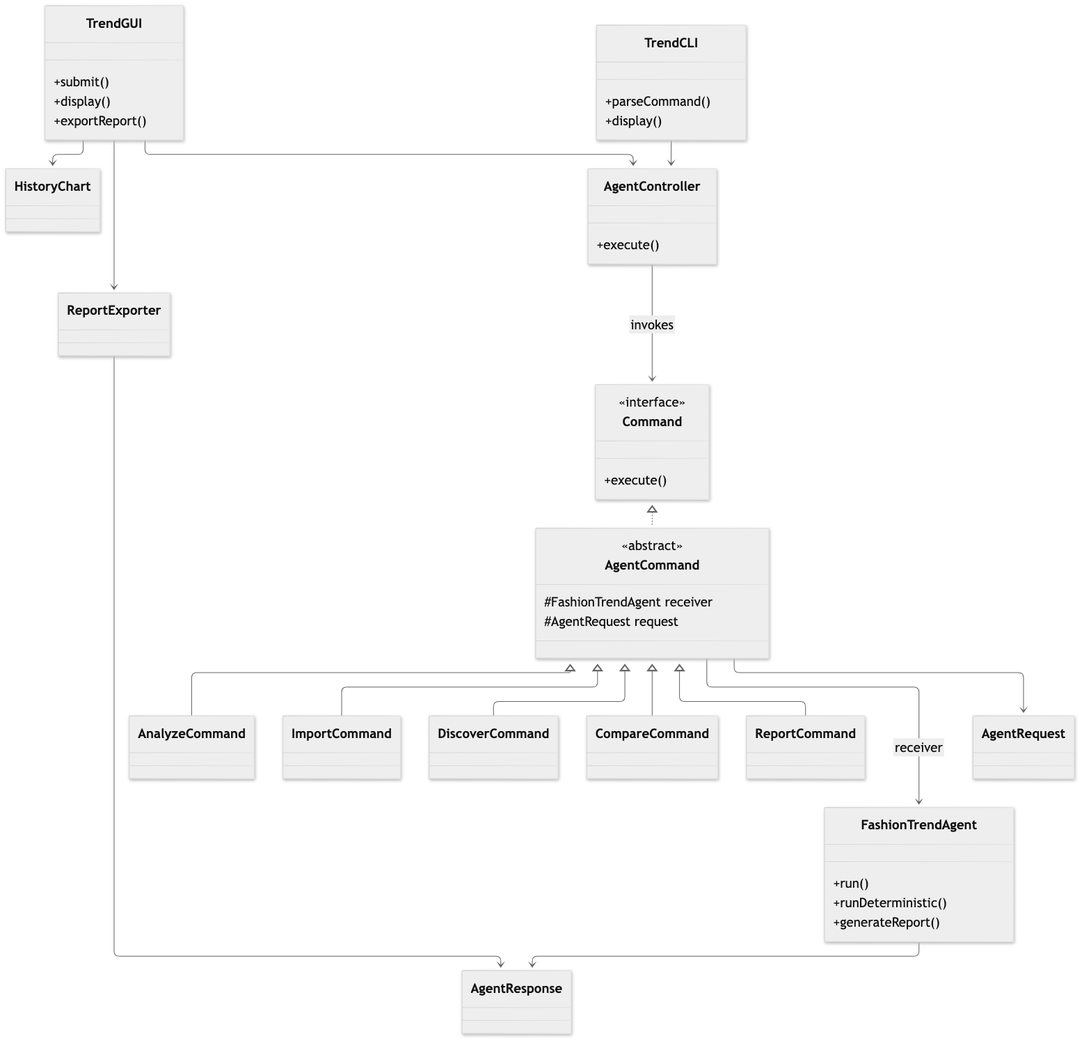
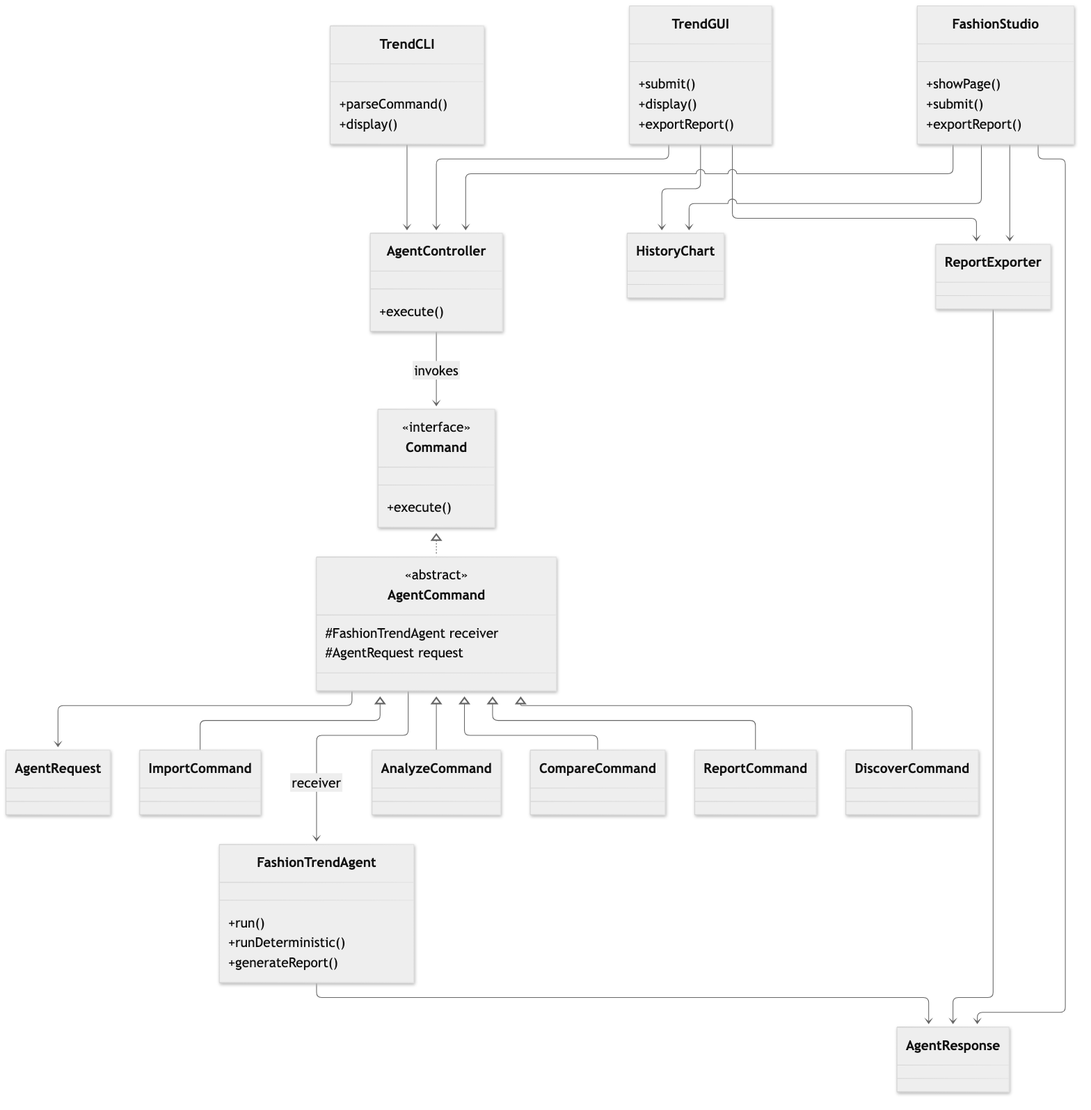
Add Atelier fashion studio with task-focused navigation and separate AI evidence views

diff --git a/src/main/java/fashion/gui/FashionStudio.java b/src/main/java/fashion/gui/FashionStudio.java
@@ -1,0 +1,214 @@
+package fashion.gui;
+
+import fashion.application.*;
+import fashion.command.*;
+import fashion.data.*;
+import fashion.export.ReportExporter;
+import javax.swing.*;
+import javax.swing.table.DefaultTableModel;
+import java.awt.*;
+import java.nio.file.Path;
+import java.time.LocalDate;
+import java.util.List;
+import java.util.ArrayList;
+import java.util.concurrent.CompletableFuture;
+import static fashion.application.AgentRequest.Operation.*;
+
+/** Editorial desktop view; shares the controller, commands and agent with the original GUI. */
+public final class FashionStudio extends JPanel {
+    private static final Color PAPER=new Color(249,247,243), INK=new Color(48,43,49),
+            MUTED=new Color(115,106,117), LILAC=new Color(231,223,239), LINE=new Color(222,215,220);
+    private final FashionTrendAgent agent;
+    private final AgentController controller=new AgentController();
+    private final JLabel title=label("Explore the next chapter.",36,true);
+    private final JLabel subtitle=label("Find a trend, understand its movement, and follow the evidence.",14,false);
+    private final JLabel status=label("Start with a CSV of trend observations.",13,false);
+    private final JLabel summary=label("Your research starts here",24,true);
+    private final JTextField trend=field("trend"), second=field("second"), category=field("category"), from=field("from"), to=field("to");
+    private final JComboBox<String> ranking=new JComboBox<>(new String[]{"Momentum", "Growth"});
+    private final JPanel inputs=new JPanel(new GridLayout(0,4,16,12));
+    private final JPanel actions=new JPanel(new FlowLayout(FlowLayout.LEFT,8,0));
+    private final JPanel metrics=new JPanel(new GridLayout(1,4,16,0));
+    private final JTable table=new JTable();
+    private final HistoryChart chart=new HistoryChart();
+    private final JTextArea narrative=textArea(), evidence=textArea(), notes=textArea();
+    private final JTabbedPane tabs=new JTabbedPane();
+    private final JButton save=button("Save report",false);
+    private final JProgressBar progress=new JProgressBar();
+    private final List<JButton> guarded=new ArrayList<>(), navigation=new ArrayList<>();
+    private AgentResponse response;
+    private boolean busy, imported;
+    private String page="Explore";
+
+    public FashionStudio(FashionTrendAgent agent) {
+        this.agent=agent;
+        setLayout(new BorderLayout(28,0)); setBackground(PAPER);
+        setBorder(BorderFactory.createEmptyBorder(24,24,24,24));
+        var sidebar=new JPanel(new BorderLayout(0,32)); sidebar.setOpaque(false);
+        sidebar.setPreferredSize(new Dimension(185,500));
+        var brand=new JPanel(new GridLayout(0,1,0,8)); brand.setOpaque(false);
+        brand.add(label("ATELIER",27,true)); brand.add(label("FASHION INTELLIGENCE",10,false));
+        sidebar.add(brand,BorderLayout.NORTH);
+        var menu=new JPanel(new GridLayout(0,1,0,10)); menu.setOpaque(false);
+        String[] names={"Explore", "Discover", "Compare", "AI reports"};
+        for(int i=0;i<names.length;i++) {
+            String name=names[i]; var item=button("0"+(i+1)+"   "+name,false);
+            item.setHorizontalAlignment(SwingConstants.LEFT); item.addActionListener(e->showPage(name));
+            navigation.add(item); menu.add(item);
+        }
+        var menuWrap=new JPanel(new BorderLayout()); menuWrap.setOpaque(false); menuWrap.add(menu,BorderLayout.NORTH);
+        sidebar.add(menuWrap,BorderLayout.CENTER);
+        var library=new JPanel(new GridLayout(0,1,0,12)); library.setOpaque(false);
+        library.add(label("YOUR DATA LIBRARY",11,false));
+        var upload=button("Import CSV",true); upload.setName("import"); guarded.add(upload);
+        upload.addActionListener(e->{var chooser=new JFileChooser(); if(chooser.showOpenDialog(this)==JFileChooser.APPROVE_OPTION) submit(AgentRequest.importCsv(chooser.getSelectedFile().toPath()));});
+        library.add(upload); library.add(label("Data stays in this session.",11,false));
+        sidebar.add(library,BorderLayout.SOUTH); add(sidebar,BorderLayout.WEST);
+
+        var main=new JPanel(new BorderLayout(0,10)); main.setOpaque(false);
+        var heading=new JPanel(); heading.setLayout(new BoxLayout(heading,BoxLayout.Y_AXIS)); heading.setOpaque(false);
+        heading.add(label("THE TREND EDIT   /   RESEARCH STUDIO",11,false)); heading.add(Box.createVerticalStrut(16)); heading.add(title); heading.add(Box.createVerticalStrut(10)); heading.add(subtitle);
+        main.add(heading,BorderLayout.NORTH);
+        var workspace=new JPanel(new BorderLayout(0,12)); workspace.setOpaque(false);
+        var query=new JPanel(new BorderLayout(0,16)); query.setBackground(Color.WHITE);
+        query.setBorder(BorderFactory.createEmptyBorder(14,18,14,18)); inputs.setOpaque(false); actions.setOpaque(false);
+        query.add(inputs,BorderLayout.CENTER); query.add(actions,BorderLayout.SOUTH); workspace.add(query,BorderLayout.NORTH);
+        var result=new JPanel(new BorderLayout(0,10)); result.setOpaque(false);
+        var overview=new JPanel(new BorderLayout(0,12)); overview.setOpaque(false); metrics.setOpaque(false);
+        overview.add(summary,BorderLayout.NORTH); overview.add(metrics,BorderLayout.CENTER); result.add(overview,BorderLayout.NORTH);
+        table.setName("results"); table.setRowHeight(38); table.setShowGrid(false); table.setFillsViewportHeight(true);
+        table.setSelectionBackground(LILAC); table.setSelectionForeground(INK); table.setAutoCreateRowSorter(true);
+        table.setSelectionMode(ListSelectionModel.SINGLE_SELECTION); table.setAutoResizeMode(JTable.AUTO_RESIZE_OFF);
+        table.getTableHeader().setReorderingAllowed(false);
+        table.getTableHeader().setPreferredSize(new Dimension(100,32));
+        table.setDefaultRenderer(Double.class,new javax.swing.table.DefaultTableCellRenderer(){
+            @Override protected void setValue(Object value){setHorizontalAlignment(SwingConstants.RIGHT);setText(value==null?"":String.format(java.util.Locale.ROOT,"%.2f",value));}
+        });
+        table.getSelectionModel().addListSelectionListener(e->updateSummary());
+        var resultPanel=new JPanel(new BorderLayout(0,8)); resultPanel.setBackground(Color.WHITE);
+        var selectionActions=new JPanel(new FlowLayout(FlowLayout.LEFT)); selectionActions.setBackground(Color.WHITE);
+        for(String action:List.of("Analyze selected", "History selected")) {
+            var b=button(action,false); guarded.add(b); selectionActions.add(b);
+            b.addActionListener(e->{int row=table.getSelectedRow(); if(row<0){status.setText("Select a result row first.");return;}
+                int column=table.getColumnName(0).equals("Date")?1:0;
+                String name=String.valueOf(table.getValueAt(row,column));
+                String cat=table.getColumnCount()>column+1?String.valueOf(table.getValueAt(row,column+1)):null;
+                submit(AgentRequest.trend(action.startsWith("Analyze")?ANALYZE:HISTORY,name,cat,null,null));});
+        }
+        resultPanel.add(selectionActions,BorderLayout.NORTH);
+        var scroll=new JScrollPane(table); scroll.setColumnHeaderView(table.getTableHeader()); resultPanel.add(scroll);
+        tabs.addTab("Trend results",resultPanel); tabs.addTab("History",chart);
+        tabs.addTab("AI interpretation",new JScrollPane(narrative)); tabs.addTab("Evidence & sources",new JScrollPane(evidence));
+        result.add(tabs); workspace.add(result); main.add(workspace);
+        var footer=new JPanel(new BorderLayout(0,8)); footer.setOpaque(false);
+        progress.setPreferredSize(new Dimension(100,3)); progress.setForeground(MUTED); progress.setBorderPainted(false);
+        footer.add(progress,BorderLayout.NORTH);
+        var statusLine=new JPanel(new BorderLayout(12,0)); statusLine.setOpaque(false); statusLine.add(status); statusLine.add(save,BorderLayout.EAST);
+        save.addActionListener(e->{var chooser=new JFileChooser();chooser.setSelectedFile(new java.io.File("trend-report.txt"));
+            if(chooser.showSaveDialog(this)==JFileChooser.APPROVE_OPTION) exportReport(chooser.getSelectedFile().toPath());});
+        footer.add(statusLine,BorderLayout.CENTER);
+        notes.setRows(1); notes.setText("Import your observations to begin. The included sample is synthetic; scores are heuristics, not forecasts.");
+        footer.add(new JScrollPane(notes),BorderLayout.SOUTH); main.add(footer,BorderLayout.SOUTH); add(main);
+        narrative.setText("Ask a question or create a report. AI interpretation will appear here, separate from calculated evidence.");
+        evidence.setText("Reports retain their calculations, sources and usage details here.");
+        showPage("Explore");
+    }
+
+    public void showPage(String name) {
+        if(busy) return;
+        page=name; inputs.removeAll(); actions.removeAll();
+        switch(name) {
+            case "Explore" -> {title.setText("Explore the next chapter."); subtitle.setText("Search by name. Category and dates apply to analysis and history.");
+                input("Trend name or search",trend); filters(); action("Find trends",SEARCH); action("Analyze trend",ANALYZE); action("View history",HISTORY);}
+            case "Discover" -> {title.setText("What’s gathering momentum?"); subtitle.setText("Explore a category or look for emerging trends with smaller audiences.");
+                input("Category · required",category); input("Rank results by",ranking); dates(); action("Discover trends",DISCOVER); action("Find emerging",EMERGING);}
+            case "Compare" -> {title.setText("Two trends. A clearer view."); subtitle.setText("Compare their popularity, growth and lifecycle using the same date range.");
+                input("First trend · exact name",trend); input("Second trend · exact name",second); dates(); action("Compare trends",COMPARE);}
+            case "AI reports" -> {title.setText("From signals to perspective."); subtitle.setText("Ask a question, or report on an exact trend. Filters apply to reports only.");
+                input("Question or exact trend name",trend); filters(); action("Ask a question",ASK); action("Create trend report",REPORT);}
+            default -> throw new IllegalArgumentException("Unknown page");
+        }
+        // Changing sections clears displayed results so old content cannot look like a new answer.
+        render(new AgentResponse(true,"Choose an action above to begin.",List.of(),List.of(),List.of(),List.of()));
+        for(var item:navigation) item.setBackground(item.getText().endsWith(name)?LILAC:PAPER);
+        updateControls(); revalidate(); repaint();
+    }
+    private void filters(){input("Category · optional",category);dates();}
+    private void dates(){input("From · YYYY-MM-DD",from);input("To · YYYY-MM-DD",to);}
+    private void input(String caption,JComponent control){var p=new JPanel(new BorderLayout(0,8));p.setOpaque(false);var l=label(caption,12,false);l.setLabelFor(control);p.add(l,BorderLayout.NORTH);p.add(control);inputs.add(p);}
+    private void action(String caption,AgentRequest.Operation op){var b=button(caption,actions.getComponentCount()==0);b.setName(op.name());actions.add(b);b.addActionListener(e->{try{
+        boolean search=op==SEARCH||op==ASK;
+        submit(new AgentRequest(op,null,trend.getText().strip(),second.getText().strip(),search||op==COMPARE?null:optional(category),
+                search?null:date(from),search?null:date(to),ranking.getSelectedIndex()==0?AgentRequest.Ranking.MOMENTUM:AgentRequest.Ranking.GROWTH));
+    }catch(IllegalArgumentException|java.time.DateTimeException ex){render(AgentResponse.error(ex.getMessage()));}});}
+
+    public CompletableFuture<AgentResponse> submit(AgentRequest request){
+        if(!SwingUtilities.isEventDispatchThread())throw new IllegalStateException("Use the event thread");
+        if(busy)return CompletableFuture.failedFuture(new IllegalStateException("Work already running"));
+        Command command=switch(request.operation()){
+            case IMPORT->new ImportCommand(agent,request);case DISCOVER,EMERGING->new DiscoverCommand(agent,request);
+            case COMPARE->new CompareCommand(agent,request);case REPORT->new ReportCommand(agent,request);
+            default->new AnalyzeCommand(agent,request);};
+        busy=true;updateControls();status.setText("Working on your request…");
+        var future=new CompletableFuture<AgentResponse>();
+        new SwingWorker<AgentResponse,Void>(){
+            protected AgentResponse doInBackground(){return controller.execute(command);}
+            protected void done(){AgentResponse result;try{result=get();}catch(Exception ex){result=AgentResponse.error("Request failed. Please try again.");}
+                if(request.operation()==IMPORT&&result.success())imported=true;
+                busy=false;render(result);updateControls();future.complete(result);}
+        }.execute();return future;
+    }
+    public CompletableFuture<Path> exportReport(Path path){
+        if(!SwingUtilities.isEventDispatchThread())throw new IllegalStateException("Use the event thread");
+        if(busy||response==null||response.report()==null)return CompletableFuture.failedFuture(new IllegalStateException("No report available"));
+        var snapshot=response;var future=new CompletableFuture<Path>();busy=true;updateControls();
+        new SwingWorker<Void,Void>(){protected Void doInBackground()throws Exception{new ReportExporter().write(snapshot,path);return null;}
+            protected void done(){Exception failure=null;try{get();status.setText("Saved to "+path.getFileName());}catch(Exception ex){failure=ex;status.setText("Could not save. Choose a new filename in a writable folder.");}
+                busy=false;updateControls();if(failure==null)future.complete(path);else future.completeExceptionally(failure);}
+        }.execute();return future;
+    }
+    private void updateControls(){for(var b:guarded)b.setEnabled(!busy);for(var b:navigation)b.setEnabled(!busy);
+        for(var b:actions.getComponents())b.setEnabled(!busy&&imported);
+        for(var f:List.of(trend,second,category,from,to))f.setEnabled(!busy);ranking.setEnabled(!busy);
+        progress.setIndeterminate(busy);save.setEnabled(!busy&&response!=null&&response.report()!=null);}
+    private void render(AgentResponse result){
+        response=result;chart.setSignals(result.signals());
+        String[] columns;List<Object[]> rows;
+        if(!result.analyses().isEmpty()){columns=new String[]{"Trend","Category","Lifecycle","Popularity","Momentum","Short %/30d","Long %/30d","Acceleration"};
+            rows=result.analyses().stream().map(a->new Object[]{a.trend(),a.category(),a.lifecycle(),a.latestPopularity(),a.momentum(),a.shortGrowth(),a.longGrowth(),a.acceleration()}).toList();}
+        else if(!result.signals().isEmpty()){columns=new String[]{"Date","Trend","Category","Popularity","Source"};rows=result.signals().stream().map(s->new Object[]{s.date().toString(),s.trend(),s.category(),s.popularity(),s.source()}).toList();}
+        else{columns=new String[]{"Matching trend"};rows=result.matches().stream().map(n->new Object[]{n}).toList();}
+        table.setModel(new DefaultTableModel(rows.toArray(Object[][]::new),columns){public boolean isCellEditable(int r,int c){return false;}
+            public Class<?> getColumnClass(int c){for(int r=0;r<getRowCount();r++)if(getValueAt(r,c)!=null)return getValueAt(r,c).getClass();return Object.class;}});
+        for(int i=0;i<columns.length;i++)table.getColumnModel().getColumn(i).setPreferredWidth(i==0?210:145);
+        narrative.setText(result.report()==null?"Create a report or ask a question to see an AI interpretation.":result.report().narrative().isBlank()?"AI interpretation unavailable. Calculated evidence is retained in Evidence & sources.":result.report().narrative());
+        evidence.setText(result.report()==null?"Report evidence will appear here.":evidenceText(result));narrative.setCaretPosition(0);evidence.setCaretPosition(0);
+        var messages=new ArrayList<>(result.warnings());for(var a:result.analyses())messages.add(a.trend()+": "+a.limitation());
+        notes.setText(messages.isEmpty()?"Scores are heuristics, not forecasts. Synthetic sample observations are not real-world fashion evidence.":String.join("\n",messages));notes.setCaretPosition(0);
+        status.setText(!result.success()?"Check your input: "+result.message():!result.message().isBlank()?result.message():rows.size()+(rows.size()==1?" result":" results")+" · Select a row to explore further.");
+        tabs.setSelectedIndex(result.report()!=null?2:!result.signals().isEmpty()?1:0);updateSummary();updateControls();
+    }
+    private static String evidenceText(AgentResponse result){
+        String full=result.report().render();
+        int interpretation=full.indexOf("\nAI interpretation (review against the evidence):");
+        int usage=full.indexOf("API usage — model:",interpretation);
+        return interpretation<0?full:full.substring(0,interpretation)+(usage<0?"":"\n"+full.substring(usage));
+    }
+    private void updateSummary(){metrics.removeAll();summary.setText(response==null?"Your research starts here":!response.success()?"Let’s try that again.":table.getRowCount()==0?"Ready for your next discovery":table.getRowCount()+" results in your edit");
+        if(response!=null&&!response.analyses().isEmpty()){
+            int row=table.getSelectedRow()<0?0:table.convertRowIndexToModel(table.getSelectedRow());
+            if(row<response.analyses().size()){var a=response.analyses().get(row);summary.setText(a.trend()+" / "+a.category());
+                metric("POPULARITY / 100",number(a.latestPopularity()));metric("SHORT GROWTH / 30D",number(a.shortGrowth())+(a.shortGrowth()==null?"":"%"));metric("MOMENTUM",number(a.momentum()));metric("LIFECYCLE",a.lifecycle());}}
+        metrics.setVisible(metrics.getComponentCount()>0);metrics.revalidate();metrics.repaint();}
+    private void metric(String name,String value){var panel=new JPanel(new BorderLayout(0,8));panel.setBackground(LILAC);panel.setBorder(BorderFactory.createEmptyBorder(10,14,10,14));panel.add(label(name,10,false),BorderLayout.NORTH);panel.add(label(value,23,true));metrics.add(panel);}
+    private static String number(Double n){return n==null?"Unavailable":String.format(java.util.Locale.ROOT,"%.1f",n);}
+    private static String optional(JTextField f){return f.getText().isBlank()?null:f.getText().strip();}
+    private static LocalDate date(JTextField f){return optional(f)==null?null:LocalDate.parse(optional(f));}
+    private static JLabel label(String text,int size,boolean serif){var l=new JLabel(text);l.setFont(new Font(serif?Font.SERIF:Font.SANS_SERIF,Font.PLAIN,size));l.setForeground(serif?INK:MUTED);return l;}
+    private static JTextField field(String name){var f=new JTextField();f.setName(name);f.setFont(new Font(Font.SANS_SERIF,Font.PLAIN,14));f.setPreferredSize(new Dimension(160,36));f.setBorder(BorderFactory.createCompoundBorder(BorderFactory.createLineBorder(LINE),BorderFactory.createEmptyBorder(7,10,7,10)));return f;}
+    private static JButton button(String text,boolean primary){var b=new JButton(text);b.setFont(new Font(Font.SANS_SERIF,Font.PLAIN,13));b.setBackground(primary?INK:PAPER);b.setForeground(primary?Color.WHITE:INK);b.setOpaque(true);b.setContentAreaFilled(true);b.setBorder(BorderFactory.createCompoundBorder(BorderFactory.createLineBorder(LINE),BorderFactory.createEmptyBorder(12,16,12,16)));b.setCursor(Cursor.getPredefinedCursor(Cursor.HAND_CURSOR));return b;}
+    private static JTextArea textArea(){var t=new JTextArea();t.setEditable(false);t.setLineWrap(true);t.setWrapStyleWord(true);t.setFont(new Font(Font.SANS_SERIF,Font.PLAIN,14));t.setForeground(INK);t.setMargin(new Insets(14,18,14,18));return t;}
+    public static void main(String[] args){SwingUtilities.invokeLater(()->{var view=new FashionStudio(new FashionTrendAgent(new TrendRepository(new CsvTrendAdapter(new CsvReader()))));
+        var frame=new JFrame("Atelier · Fashion Intelligence");frame.setDefaultCloseOperation(JFrame.EXIT_ON_CLOSE);frame.setContentPane(view);frame.setSize(1320,900);frame.setMinimumSize(new Dimension(1180,780));frame.setLocationRelativeTo(null);frame.setVisible(true);
+        if(args.length==1)view.submit(AgentRequest.importCsv(Path.of(args[0])));});}
+}

diff --git a/src/test/java/fashion/StudioTest.java b/src/test/java/fashion/StudioTest.java
@@ -1,0 +1,63 @@
+package fashion;
+
+import fashion.gui.FashionStudio;
+import fashion.application.*;
+import fashion.data.*;
+import javax.swing.*;
+import java.awt.*;
+import java.awt.image.BufferedImage;
+import java.nio.file.*;
+import java.util.concurrent.*;
+import java.util.concurrent.atomic.AtomicReference;
+import static fashion.application.AgentRequest.Operation.*;
+
+/** End-to-end checks for the alternate view, using deterministic local model replies. */
+public final class StudioTest {
+    private static FashionStudio view;
+    private static int checks;
+    public static void main(String[] args)throws Exception {
+        SwingUtilities.invokeAndWait(()->view=new FashionStudio(new FashionTrendAgent(
+            new TrendRepository(new CsvTrendAdapter(new CsvReader())),(instructions,input,schema)->
+            new fashion.llm.LLMClient.Reply(schema==null?"TEST interpretation":"{\"steps\":[{\"operation\":\"ANALYZE\",\"name\":\"mary jane flats\",\"secondName\":null,\"category\":null,\"from\":null,\"to\":null,\"ranking\":\"MOMENTUM\"}],\"clarification\":\"\"}","test",10,5))));
+        edt(()->check(!button("SEARCH").isEnabled(),"requires import"));
+        check(submit(AgentRequest.importCsv(Path.of("data/sample-trends.csv"))).success(),"imports data");
+        edt(()->{field("trend").setText("mary");button("SEARCH").doClick();});ready();
+        edt(()->check(table().getRowCount()==1,"search button uses shared workflow"));
+        edt(()->{field("trend").setText("mary jane flats");button("ANALYZE").doClick();});ready();
+        edt(()->{check(table().getValueAt(0,2).equals("Growing"),"analysis table");snapshot("studio-preview.png",1320,900);snapshot("studio-small-preview.png",1180,780);});
+        edt(()->{view.showPage("Discover");field("category").setText("footwear");button("DISCOVER").doClick();});ready();
+        edt(()->{check(table().getRowCount()==2,"discovery screen");table().getRowSorter().toggleSortOrder(0);table().setRowSelectionInterval(0,0);
+            check(hasLabel(view,"chunky sneakers / footwear"),"summary follows sorted selection");});
+        edt(()->{view.showPage("Compare");field("trend").setText("mary jane flats");field("second").setText("chunky sneakers");button("COMPARE").doClick();});ready();
+        edt(()->check(table().getRowCount()==2,"comparison screen"));
+        edt(()->{view.showPage("Explore");field("from").setText("bad date");button("HISTORY").doClick();
+            check(table().getRowCount()==0,"bad input clears stale output");
+            check(hasLabel(view,"Let’s try that again."),"error feedback");field("from").setText("");button("HISTORY").doClick();});ready();
+        edt(()->check(table().getRowCount()==4,"history screen"));
+        edt(()->{view.showPage("AI reports");button("REPORT").doClick();});ready();
+        edt(()->check(hasText(view,"TEST interpretation"),"separate AI narrative"));
+        var directory=Files.createTempDirectory("studio-report-");var path=directory.resolve("report.txt");
+        var export=new AtomicReference<CompletableFuture<Path>>();edt(()->export.set(view.exportReport(path)));export.get().get(10,TimeUnit.SECONDS);
+        check(Files.readString(path).contains("Calculated evidence"),"export retains evidence");
+        edt(()->export.set(view.exportReport(path)));
+        try{export.get().get(10,TimeUnit.SECONDS);throw new AssertionError("overwrite accepted");}catch(ExecutionException expected){checks++;}
+        edt(()->{field("trend").setText("How are mary jane flats doing?");button("ASK").doClick();});ready();
+        edt(()->check(hasText(view,"TEST interpretation"),"Ask screen"));
+        edt(()->view.showPage("Explore"));edt(()->export.set(view.exportReport(directory.resolve("stale.txt"))));
+        check(export.get().isCompletedExceptionally(),"navigation prevents stale export");
+        Files.delete(path);Files.delete(directory);
+        System.out.println("Passed "+checks+" Atelier UI checks; preview: build/studio-preview.png");
+    }
+    private static AgentResponse submit(AgentRequest r)throws Exception{var f=new AtomicReference<CompletableFuture<AgentResponse>>();edt(()->f.set(view.submit(r)));return f.get().get(10,TimeUnit.SECONDS);}
+    private static void edt(Runnable r)throws Exception{SwingUtilities.invokeAndWait(r);}
+    private static void ready()throws Exception{for(int i=0;i<200;i++){var ready=new java.util.concurrent.atomic.AtomicBoolean();edt(()->ready.set(button("import").isEnabled()));if(ready.get())return;Thread.sleep(25);}throw new AssertionError("worker timeout");}
+    private static Component find(Container root,String name){for(var c:root.getComponents()){if(name.equals(c.getName()))return c;if(c instanceof Container nested){var result=find(nested,name);if(result!=null)return result;}}return null;}
+    private static JTextField field(String name){return (JTextField)find(view,name);}
+    private static JButton button(String name){return (JButton)find(view,name);}
+    private static JTable table(){return (JTable)find(view,"results");}
+    private static boolean hasLabel(Container root,String text){for(var c:root.getComponents()){if(c instanceof JLabel l&&l.getText().equals(text))return true;if(c instanceof Container n&&hasLabel(n,text))return true;}return false;}
+    private static boolean hasText(Container root,String text){for(var c:root.getComponents()){if(c instanceof JTextArea t&&t.getText().equals(text))return true;if(c instanceof Container n&&hasText(n,text))return true;}return false;}
+    private static void layout(Container c){c.doLayout();for(var child:c.getComponents())if(child instanceof Container n)layout(n);}
+    private static void snapshot(String file,int width,int height){view.setSize(width,height);layout(view);var image=new BufferedImage(width,height,BufferedImage.TYPE_INT_RGB);var g=image.createGraphics();view.printAll(g);g.dispose();try{javax.imageio.ImageIO.write(image,"png",Path.of("build",file).toFile());}catch(Exception ex){throw new RuntimeException(ex);}}
+    private static void check(boolean value,String message){if(!value)throw new AssertionError(message);checks++;}
+}

diff --git a/docs/ai-collaboration.md b/docs/ai-collaboration.md
@@ -119,3 +119,19 @@ LLM integration in the application.
   calculated summary values, sorted selection and clearing stale summaries on error.
   Analysis and history previews inspected; native desktop review remains pending.
 - Exact coding model, token usage and monetary cost remain unavailable.
+
+## November 7, 2026 — alternate Atelier interface
+
+- User requested a recreated UI with an elegant fashion aesthetic that still makes
+  user goals easy to understand. Codex implemented a separate FashionStudio Swing
+  view and studio launcher, retaining the existing TrendGUI for comparison.
+- Four sections expose search/history/analysis, discovery/emerging, comparison,
+  and AI questions/reports. Ivory/charcoal styling, serif headings and lavender
+  metrics emphasize calculated results; evidence and AI narrative have separate tabs.
+- Reuses the existing controller, commands, agent, chart and report exporter.
+  No additional UI framework or paid API requests were needed.
+- 147 checks passed, including 15 new alternate-view checks for navigation/actions,
+  sorted summaries, invalid-input recovery, report export and overwrite rejection.
+  Inspected previews at 1320×900 and 1180×780 and corrected cramped result spacing.
+  Native desktop review and student review remain pending. Coding model, tokens
+  and monetary cost remain unavailable.

diff --git a/README.md b/README.md
@@ -44,6 +44,25 @@ The repository currently lives in memory. Each command loads its supplied CSV;
 import does not create a persistent database. `TrendRepository` also deduplicates
 repeated imports within the same process.
 
+## Atelier — alternate fashion studio UI
+
+```bash
+./scripts/studio.sh data/sample-trends.csv
+```
+
+The new editorial interface uses ivory, charcoal, serif headings and lavender
+metric cards. Four navigation sections keep tasks explicit: **Explore** for
+search/analysis/history, **Discover** for category rankings and emerging trends,
+**Compare** for two trends, and **AI reports** for questions and reports. Import
+CSV from the sidebar. The original GUI below remains available for comparison.
+
+Search and Ask ignore category/date fields; other actions use the visible filters.
+Selected-result shortcuts open unfiltered analysis/history for that trend/category.
+AI interpretation and calculated evidence have separate tabs; report export retains
+both. Changing sections clears the displayed results and disables stale exports.
+Work runs in the background. Minimum window size is 1180×780. Headless previews
+were checked at that size and 1320×900; native desktop/file dialogs still need review.
+
 ## Desktop GUI
 
 ```bash

diff --git a/docs/demo-guide.md b/docs/demo-guide.md
@@ -147,3 +147,12 @@ The placeholder environment override causes no paid request, leaves the actual
 - Rebuild stage2-report.pdf and verify all links/figures, then remove the review-draft
   status only when the missing materials and student review are complete.
 - Push the final PDF, source, README and demo links; submit the repository URL.
+
+## Alternate Atelier UI (November 7)
+
+Launch `./scripts/studio.sh data/sample-trends.csv` to demonstrate the new view.
+Explore covers F02/F04/F05/F09; Discover covers F06/F07; Compare covers F08;
+AI reports covers F01/F10; sidebar Import CSV covers F03. Use the same feature
+inputs and expected results described above. The original GUI remains available.
+For F10, show both AI interpretation and Evidence & sources, then Save report.
+Review the native dialogs/window before recording.

diff --git a/docs/architecture.md b/docs/architecture.md
@@ -6,6 +6,15 @@ interface can choose its own rendering without repeating application workflows.
 
 ```mermaid
 classDiagram
+    class FashionStudio {
+        +showPage(name)
+        +submit(request)
+        +exportReport(path)
+    }
+    FashionStudio --> AgentController
+    FashionStudio --> AgentResponse
+    FashionStudio --> HistoryChart
+    FashionStudio --> ReportExporter
     class TrendCLI {
         +parseCommand(args, agent) Command
         +display(response)
